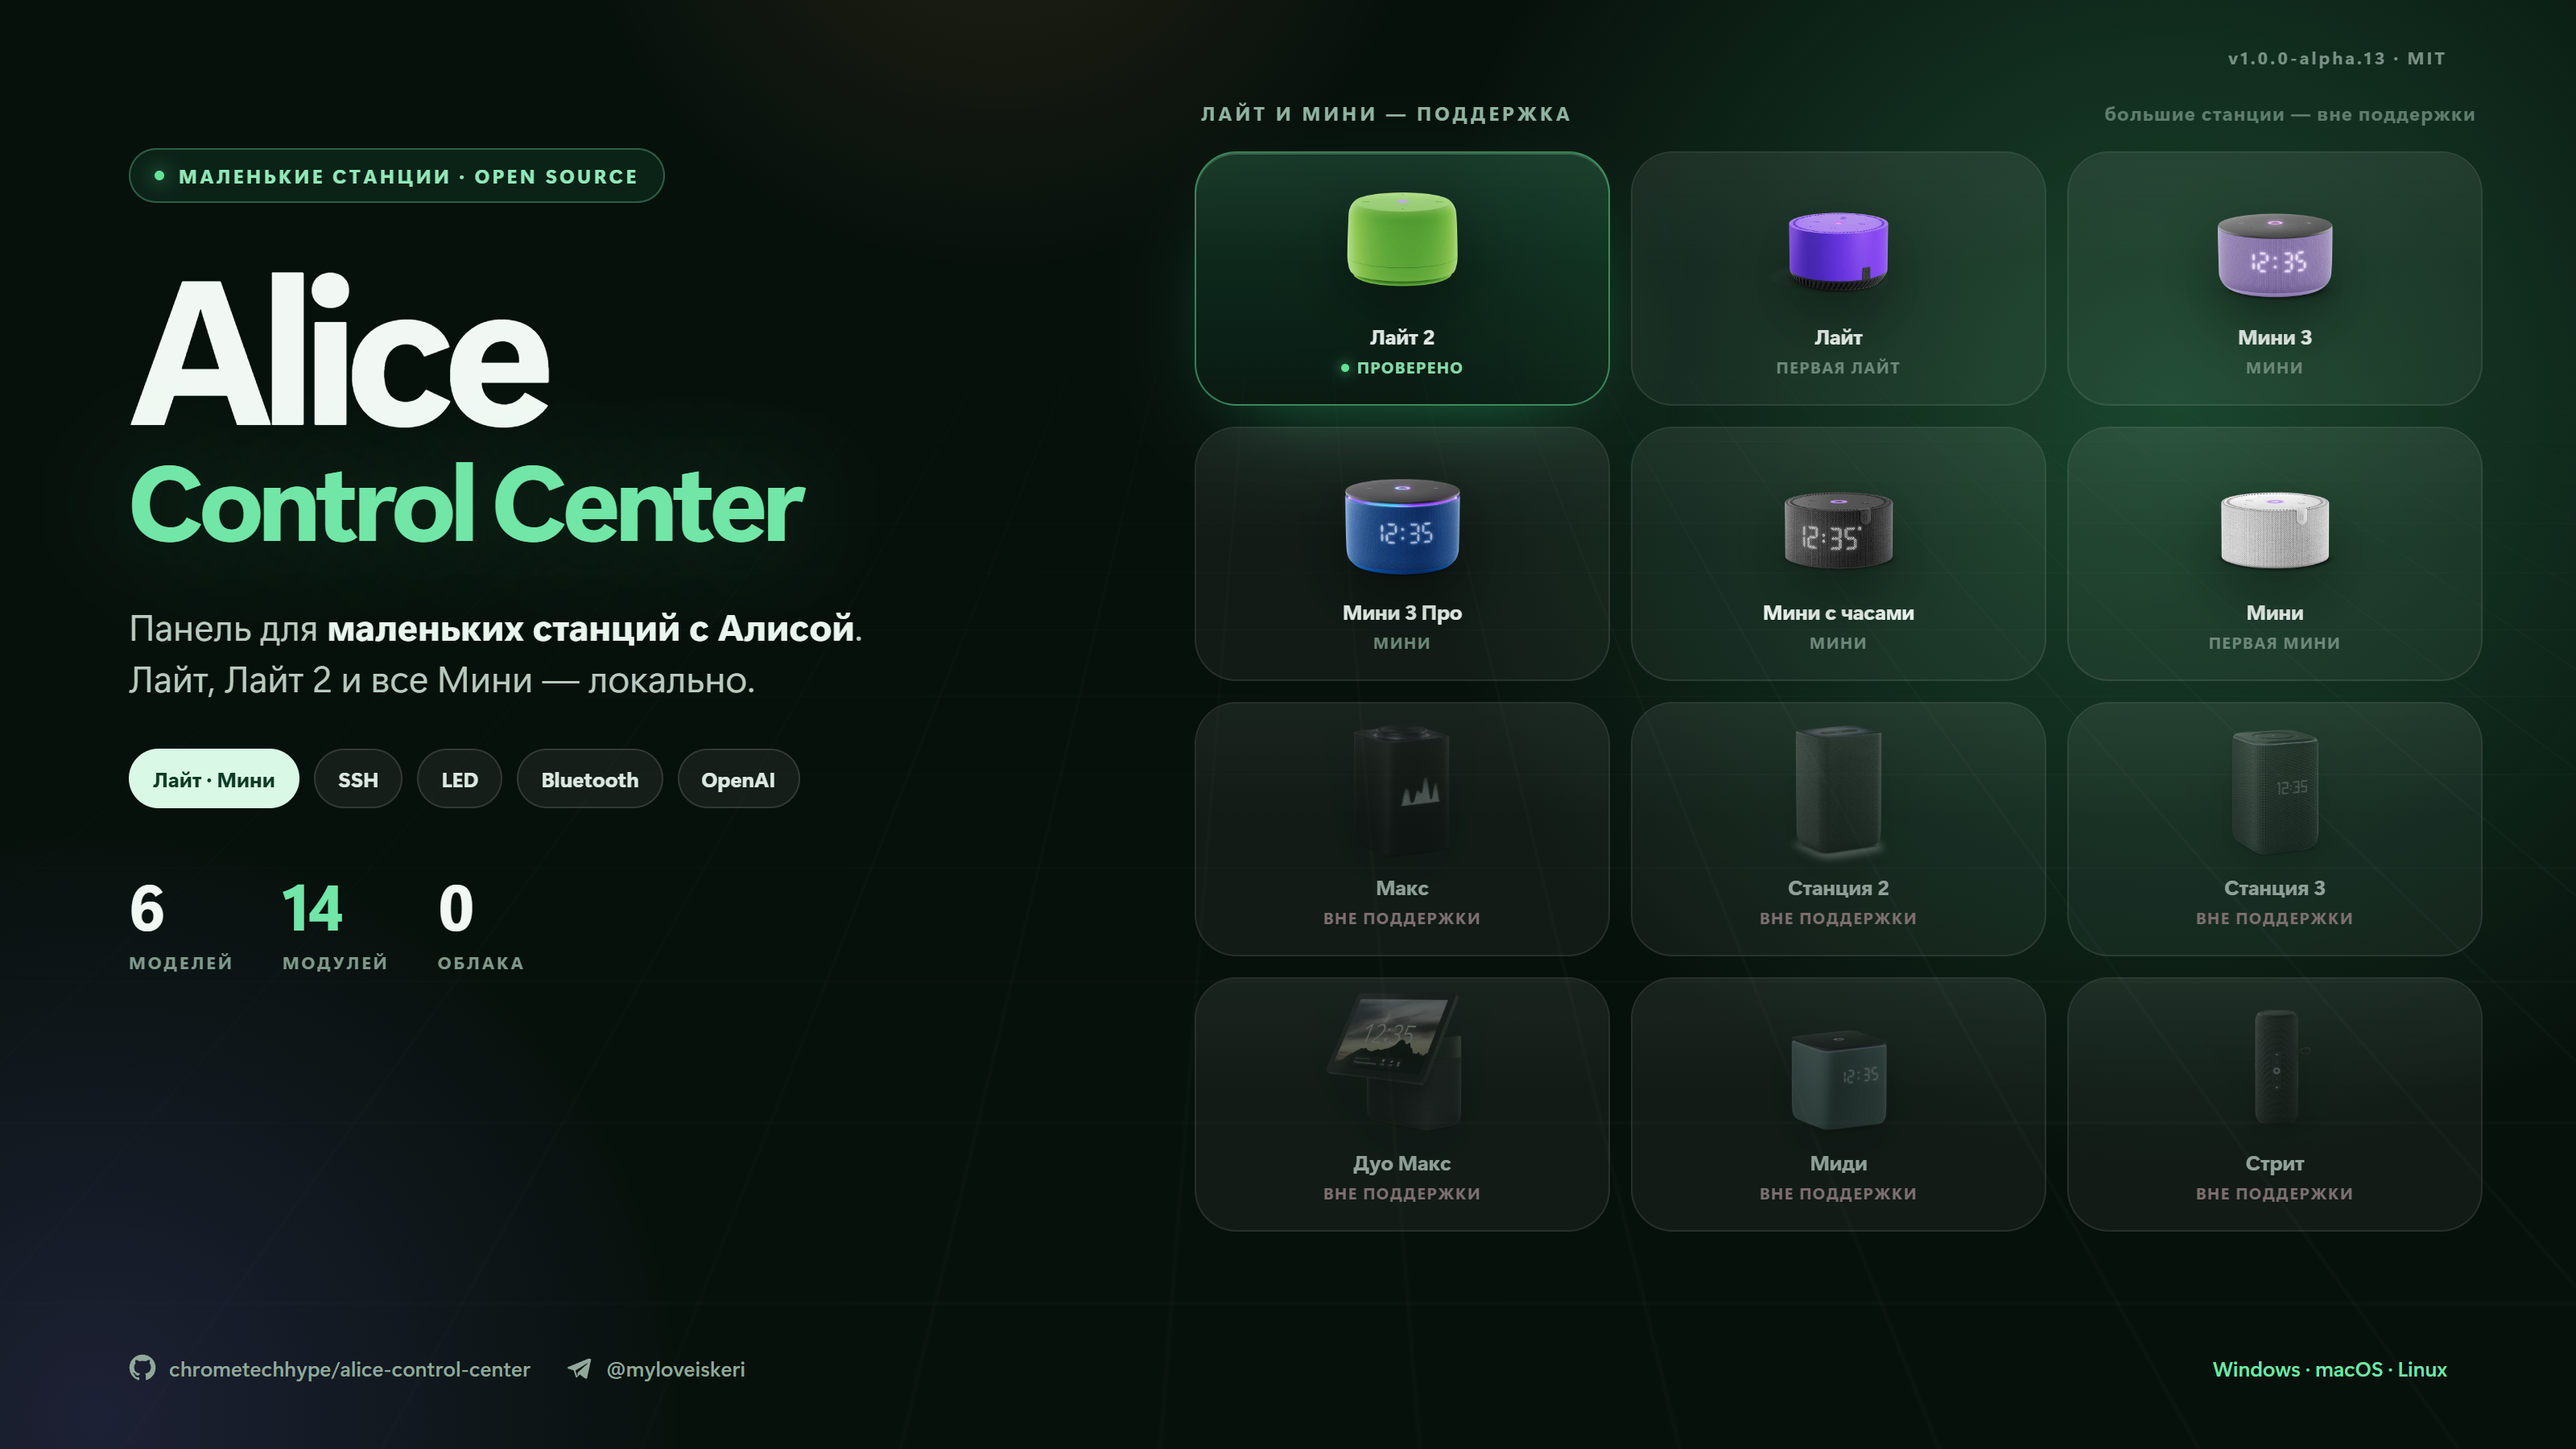
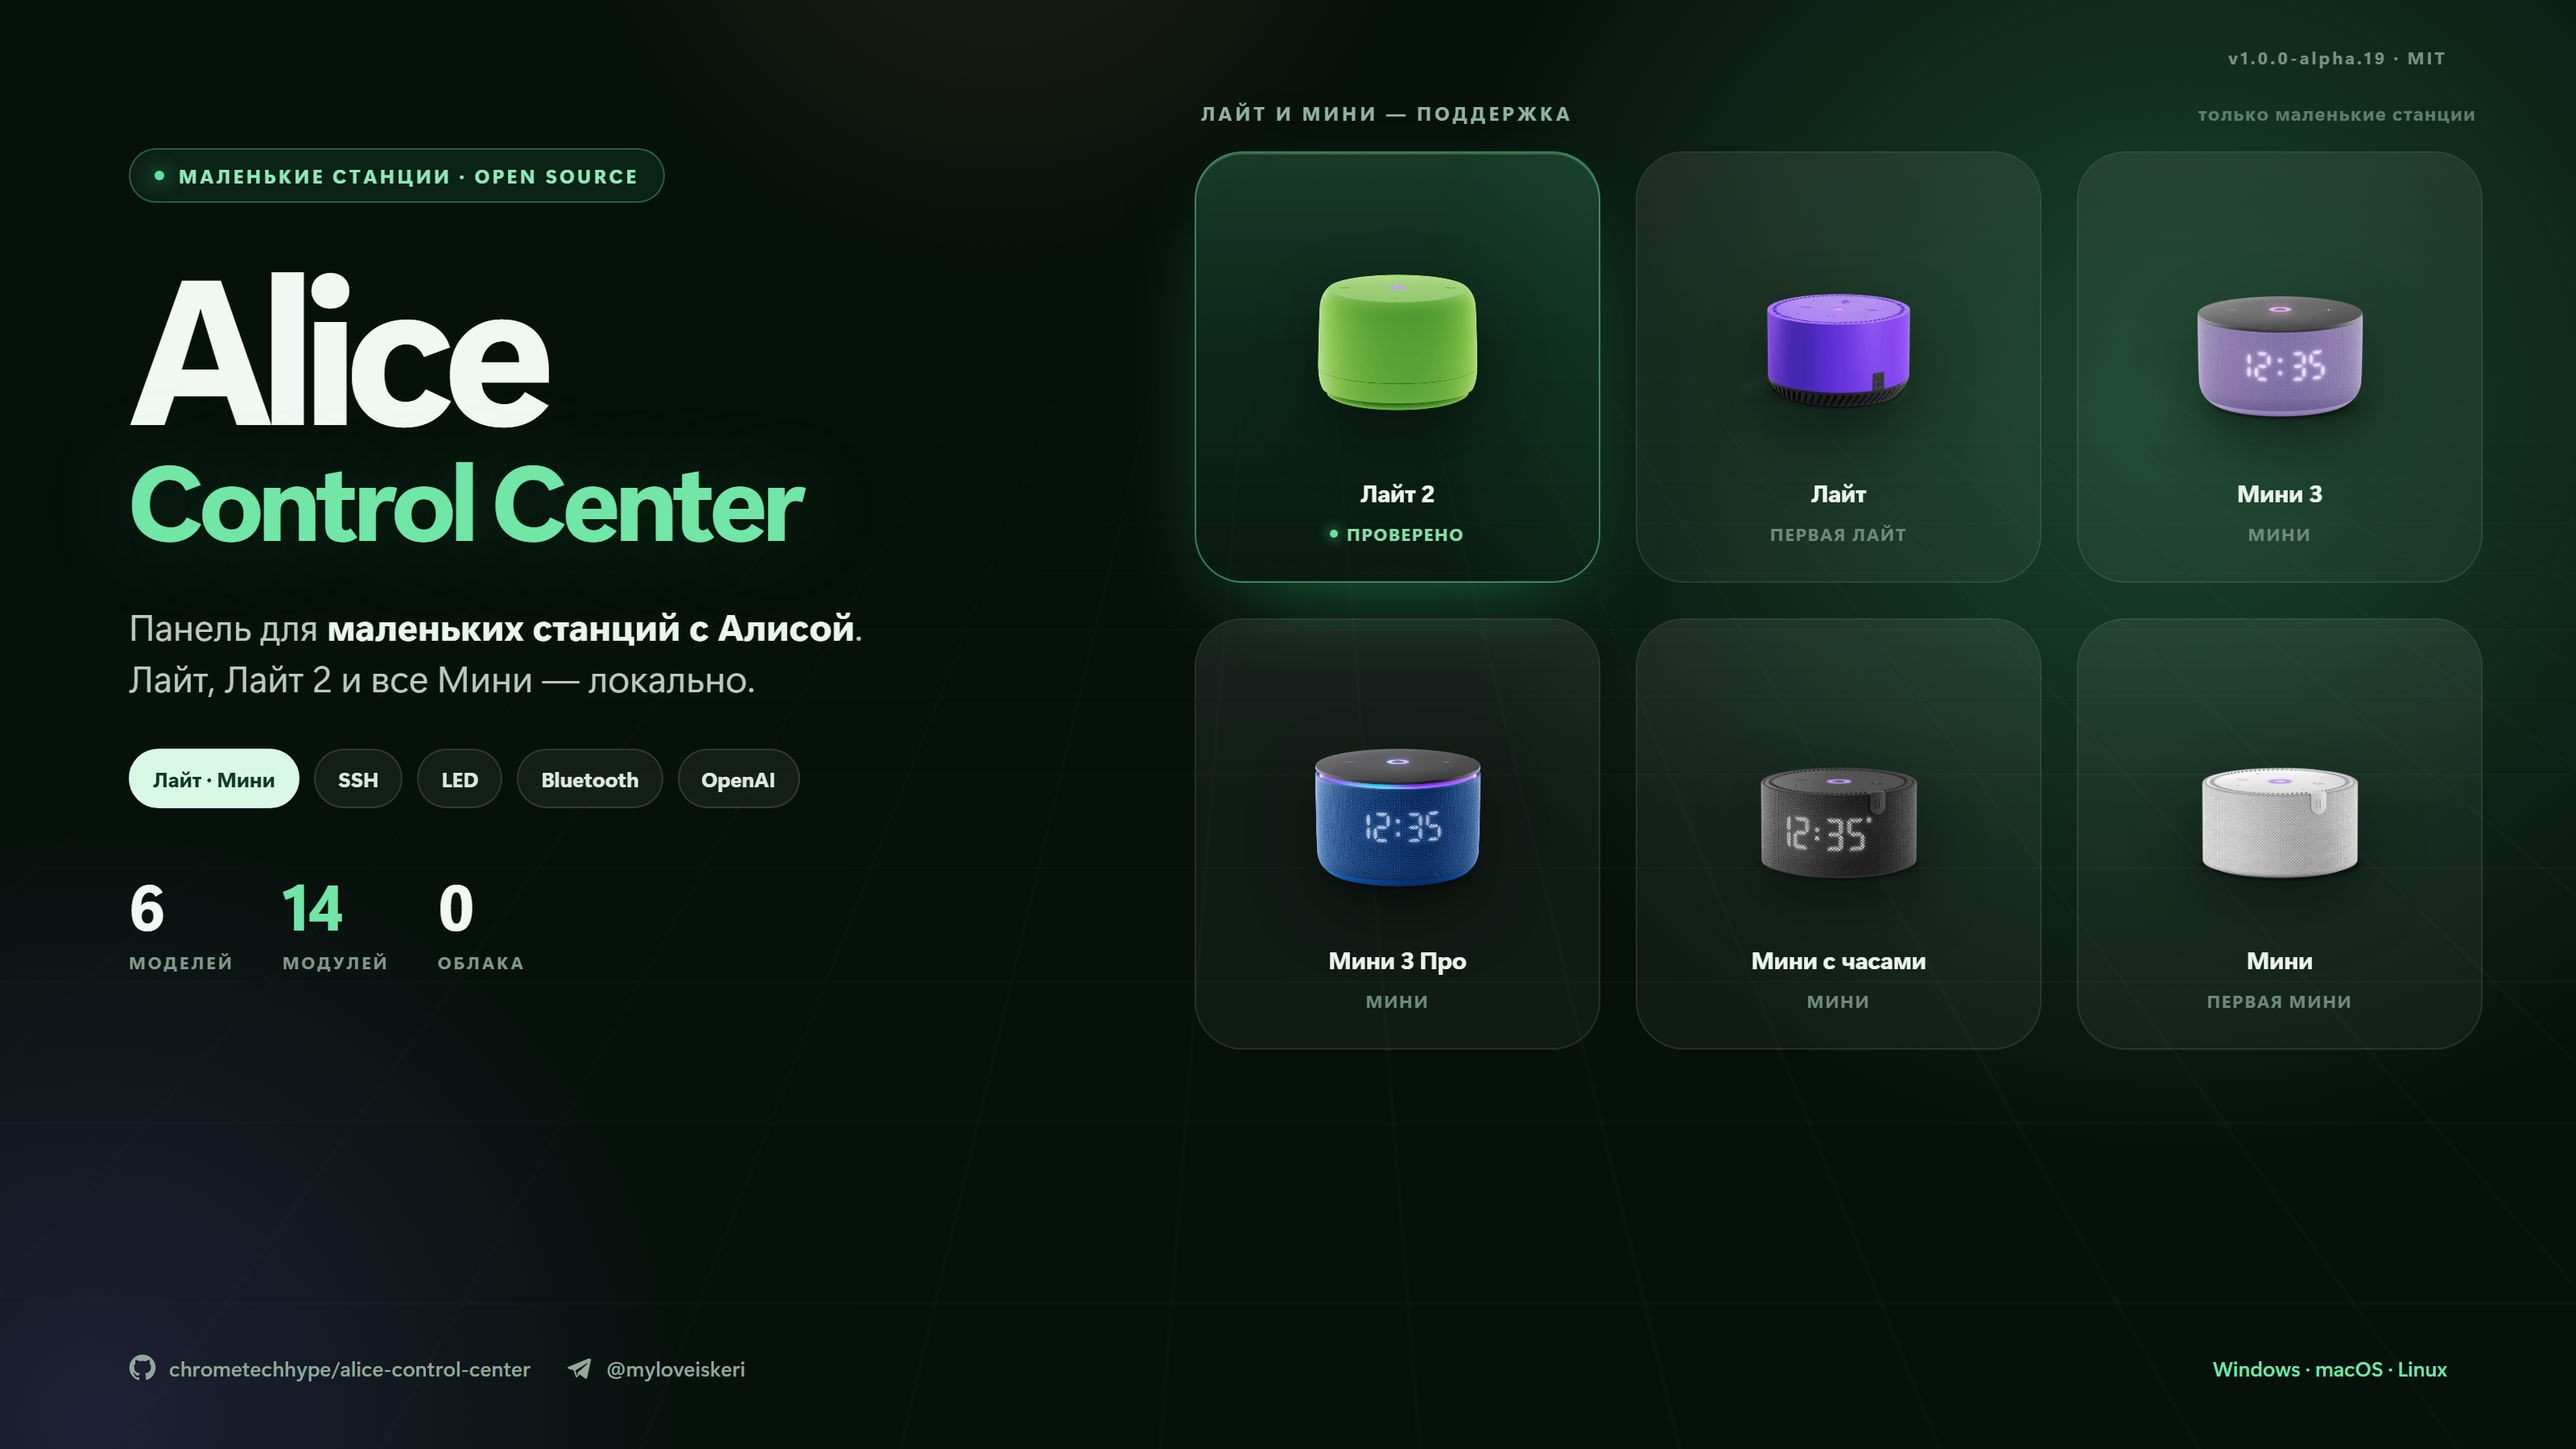
Unsupported stations are no longer offered anywhere
Promising a model we never tested invites the user into a bug we cannot
reproduce; the picker, the cover and the README now name only small stations.

diff --git a/tests/deviceVisual.test.ts b/tests/deviceVisual.test.ts
@@ -2,8 +2,8 @@ import { beforeEach, describe, expect, it } from 'vitest';
 import type { DeviceInfo } from '../shared/types.ts';
 import {
   LITE2_COLORS,
-  STATION_MODEL_GROUPS,
   SUPPORTED_KINDS,
+  SUPPORTED_MODELS,
   detectDeviceVisual,
   resetStationLook,
   resetStationModel,
@@ -124,16 +124,13 @@ describe('Явный выбор модели', () => {
     expect(storage.has('acc-station-model')).toBe(false);
   });
 
-  it('список делится на маленькие и большие станции, «generic» не предлагается', () => {
-    expect(STATION_MODEL_GROUPS.map((group) => group.title)).toEqual([
-      'Маленькие станции',
-      'Большие станции',
-    ]);
-    const all = STATION_MODEL_GROUPS.flatMap((group) => group.models.map((model) => model.kind));
-    expect(new Set(all).size).toBe(all.length);
-    expect(all).not.toContain('generic');
-    expect(STATION_MODEL_GROUPS[0].models.map((model) => model.kind)).toEqual(SUPPORTED_KINDS);
-    expect(all).toEqual(expect.arrayContaining(['lite2', 'max', 'station3', 'duo-max', 'mini2']));
+  it('в списке выбора только маленькие станции: ни больших, ни «generic»', () => {
+    const kinds = SUPPORTED_MODELS.map((model) => model.kind);
+    expect(kinds).toEqual(SUPPORTED_KINDS);
+    expect(new Set(kinds).size).toBe(kinds.length);
+    for (const excluded of ['generic', 'max', 'station2', 'station3', 'duo-max', 'midi', 'street', 'mini2', 'mini2-clock']) {
+      expect(kinds).not.toContain(excluded);
+    }
   });
 });
 

diff --git a/src/lib/deviceVisual.ts b/src/lib/deviceVisual.ts
@@ -242,18 +242,15 @@ export function resetStationModel(): void {
   }
 }
 
-export const STATION_MODEL_GROUPS: Array<{ title: string; models: Array<{ kind: StationKind; label: string }> }> = [
-  {
-    title: 'Маленькие станции',
-    models: SUPPORTED_KINDS.map((kind) => ({ kind, label: VISUALS[kind].label })),
-  },
-  {
-    title: 'Большие станции',
-    models: (Object.keys(VISUALS) as StationKind[])
-      .filter((kind) => kind !== 'generic' && !SUPPORTED_KINDS.includes(kind))
-      .map((kind) => ({ kind, label: VISUALS[kind].label })),
-  },
-];
+/**
+ * Полный набор функций обещан только маленьким станциям, поэтому в списке выбора они и остаются
+ * единственными: предлагать большую модель, на которой ничего не проверяли, панель не должна.
+ * Определённая по SSH большая станция при этом остаётся подписанной — VISUALS нужен для образа.
+ */
+export const SUPPORTED_MODELS: Array<{ kind: StationKind; label: string }> = SUPPORTED_KINDS.map((kind) => ({
+  kind,
+  label: VISUALS[kind].label,
+}));
 
 export function detectDeviceVisual(info: DeviceInfo | null | undefined): DeviceVisual {
   const haystack = `${info?.modelGuess ?? ''} ${info?.modelRaw ?? ''} ${info?.hostname ?? ''}`.toLowerCase();

diff --git a/src/views/SettingsView.vue b/src/views/SettingsView.vue
@@ -34,7 +34,7 @@ import {
   LITE2_COLORS,
   resetStationLook,
   resetStationModel,
-  STATION_MODEL_GROUPS,
+  SUPPORTED_MODELS,
   setStationLook,
   setStationModel,
   stationLook,
@@ -1068,11 +1068,9 @@ onMounted(() => {
                 @change="onModelChange"
               >
                 <option value="auto">Определить автоматически</option>
-                <optgroup v-for="group in STATION_MODEL_GROUPS" :key="group.title" :label="group.title">
-                  <option v-for="model in group.models" :key="model.kind" :value="model.kind">
-                    {{ model.label }}
-                  </option>
-                </optgroup>
+                <option v-for="model in SUPPORTED_MODELS" :key="model.kind" :value="model.kind">
+                  {{ model.label }}
+                </option>
               </select>
               <p class="field-hint">
                 Панель читает модель по SSH, но считывается она не на каждой прошивке — поэтому её

diff --git a/README.md b/README.md
@@ -54,9 +54,8 @@ Vue 3 + TypeScript на фронтенде, Node.js + Express на backend, св
 Полный набор функций проверен на Станции Лайт 2 (`Yandex Prune EVT2`). На остальных маленьких
 станциях доступность LED, Bluetooth, системных звуков и отдельных путей зависит от прошивки.
 
-Большие станции — Макс, Станция 2, Станция 3, Дуо Макс, Миди, Стрит, а также Мини 2 и Мини 2 с
-часами — панель подключает и даёт с ними диагностику, Files, Terminal, бэкапы и обновления, но
-полный набор функций на них не проверен: они вне поддержки. Выбрать такую модель можно вручную.
+Другие модели панель тоже подключает — диагностика, Files, Terminal, бэкапы и обновления работают, —
+но полный набор функций на них не проверен, и в списке моделей они не предлагаются.
 
 ## Архитектура
 
@@ -398,8 +397,8 @@ Sound Studio умеет включать звук прямо на колонке
 
 - Полный набор функций проверен на Яндекс Станции Лайт 2 (`Yandex Prune EVT2`, прошивка
   `0.372.1.13`, kernel `4.9.113`, BusyBox 1.31.1).
-- Большие станции (Макс, Станция 2, Станция 3, Дуо Макс, Миди, Стрит) и Мини 2 панель подключает
-  через тот же SSH-адаптер, но полный набор функций на них не проверен — они вне поддержки.
+- Другие модели панель подключает через тот же SSH-адаптер, но полный набор функций на них не
+  проверен — в списке моделей они не предлагаются.
 - SSH без SFTP (shell fallback), BusyBox `sh`, `usleep`, `awk`, `sha256sum`.
 - Светлая, тёмная и системная темы; динамические акценты по цвету корпуса.
 
